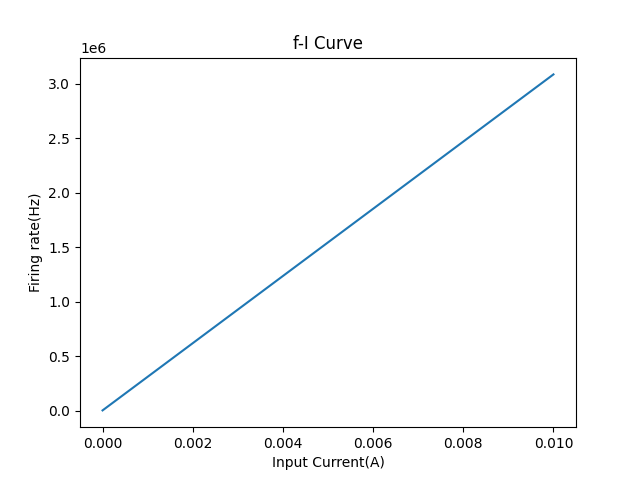
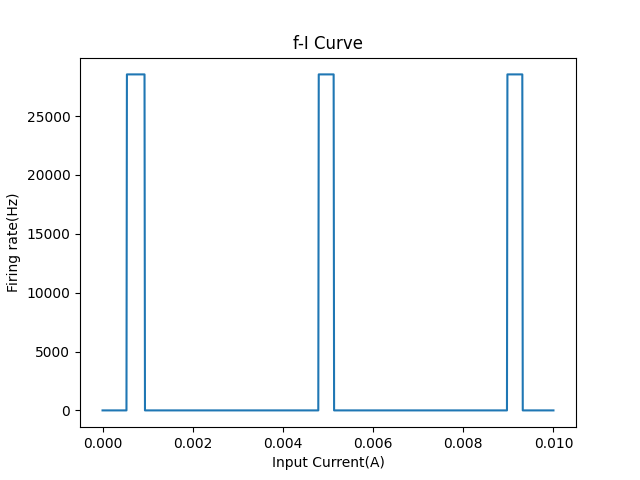
further implementation still no f-I curve

diff --git a/HH model.py b/HH model.py
@@ -54,7 +54,7 @@ class HodgkinHuxley():
         denom = (np.exp((10 - v) / 10) - 1)
 
         if nom == 0 and denom == 0 :
-            return 0.1
+            return 0.1*kHz
         else:
             return (nom / denom)*kHz
     def beta_n(self,v):
@@ -65,7 +65,7 @@ class HodgkinHuxley():
         denom = (np.exp((25. - v) / 10.) - 1.)
 
         if nom == 0 and denom == 0 :
-            return 1.5/(-1 + np.exp(3./2.))
+            return (1.5/(-1 + np.exp(3./2.)))*kHz
         else:
             return (nom / denom)*kHz
     def beta_m(self,v):
@@ -97,20 +97,17 @@ class HodgkinHuxley():
     #     return 0.0
 
     def frequency(self,v):
-        v = v *milli
-        self.firing_rate = []
+        firing_rate = []
         self.iinj = np.linspace(0, self.i_inj, 1000)
         rec_spikes = 0               # record spike times
 
         for n in range(len(self.iinj)):
-            for l in range(len(self.t)-1):
-                # print(self.vthresh)
-                # print(v[l])
-                if v[l] >= self.vthresh:
-                    rec_spikes +=1
-                    # v[l+1] = self.vrest
-            self.firing_rate.append(rec_spikes/self.tmax)
-
+            # for l in range(len(self.t)-1):
+            if v[n] >= self.vthresh:
+                rec_spikes +=1
+            firing_rate.append(rec_spikes/self.tmax)
+        print(firing_rate)
+        return firing_rate
         # self.max_I = []
         # for i in range(len(self.iinj)):
         #     if self.firing_rate[i] ==0:
@@ -154,7 +151,7 @@ class HodgkinHuxley():
         m = sol[:,2]
         h = sol[:,3]
 
-        self.frequency(sol[:,0]) #TODO change sol to v if you want to convert at the end
+        firing_rate = self.frequency(v)
 
         ax = plt.subplot()
         ax.plot(t, v)
@@ -191,7 +188,7 @@ class HodgkinHuxley():
 
         # F-I curve
         ax = plt.subplot()
-        ax.plot(self.iinj, self.firing_rate)
+        ax.plot(self.iinj, firing_rate)
         # ax.plot(max(self.max_I))
         ax.set_xlabel("Input Current(A)")
         ax.set_ylabel("Firing rate(Hz)")

diff --git a/Markov Model.py b/Markov Model.py
@@ -1,10 +1,10 @@
 from Units import *
 import numpy as np
-import matplotlib.pyplot as plt
 from scipy.integrate import odeint
 
 class Markov():
-
+    # Current through the resurgent sodium channel is described using a Markovian Scheme
+    v = 0.
     def alpha(self,v):
         return 150* np.exp(v/20*mv)
     def beta(self,v):
@@ -12,8 +12,7 @@ class Markov():
     def ksi(self,v):
         return 0.03 * np.exp(-v/25*mv)
 
-    def derivatives(self,c,I,O,B):
-        v = 0.
+    def derivatives(self,y,t,c,I,O,B):
         γ = 150         # m*s**(-1)
         δ = 40          # m*s**(-1)
         ε = 1.75        # m*s**(-1)
@@ -23,9 +22,9 @@ class Markov():
         F = 0.005       # m*s**(-1)
         a = ((U/D)/(F/N))**(1/8)
 
-        α = self.alpha(v)
-        β = self.beta(v)
-        ξ = self.ksi(v)
+        α = y[1]
+        β = y[2]
+        ξ = y[3]
 
         der = np.zeros(13)
         
@@ -45,16 +44,16 @@ class Markov():
         der[11] = ξ*B + F*I[5] - O*N - O*ε  # dO/dt
         der[12] = O * ε - B*ξ   # dB/dt
 
-        print(der[0]+der[1]+der[5]) # has to be 0
         print(c[0]+c[1]+I[0])       # has to be 1
-
+        
         return der
 
     def Main(self):
-        t = self.t
-        y = np.array([v, self.n_inf(v), self.m_inf(v), self.h_inf(v)], dtype= 'float64')
-        # self.derivatives(c,I,O,B)
-        markov = odeint(self.derivatives, y, t)    # Solve ODE
+        v = self.v
+        y = np.array([self.v, self.alpha(v), self.beta(v), self.ksi(v)], dtype= 'float64')
+        markov = odeint(self.derivatives, y, self.t,args=(c,I,O,B))    # Solve ODE
+
+        print(markov[:,0]+markov[:,1]+markov[:,5]) # has to be 0
 
 if __name__ == '__main__':
     runner = Markov()
